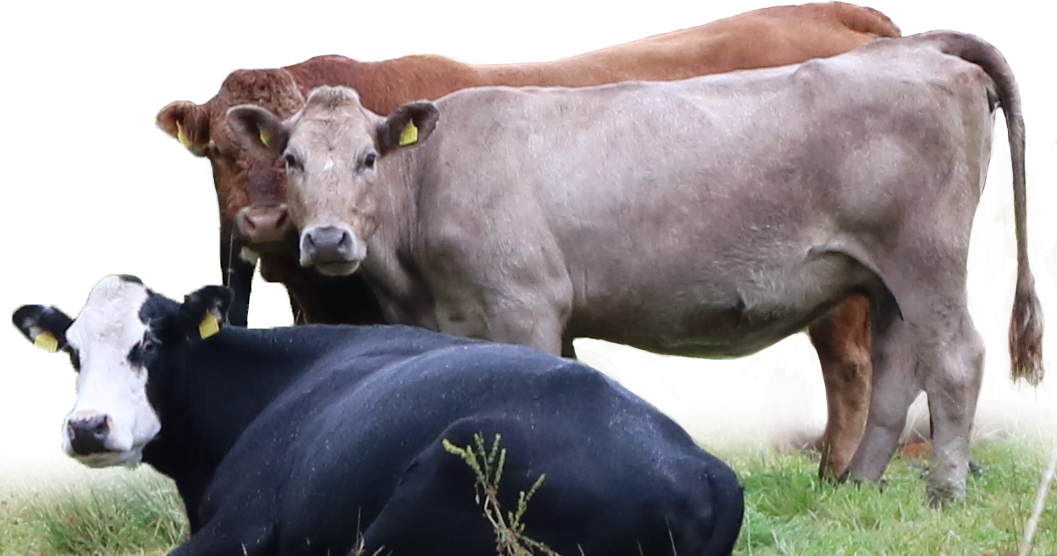
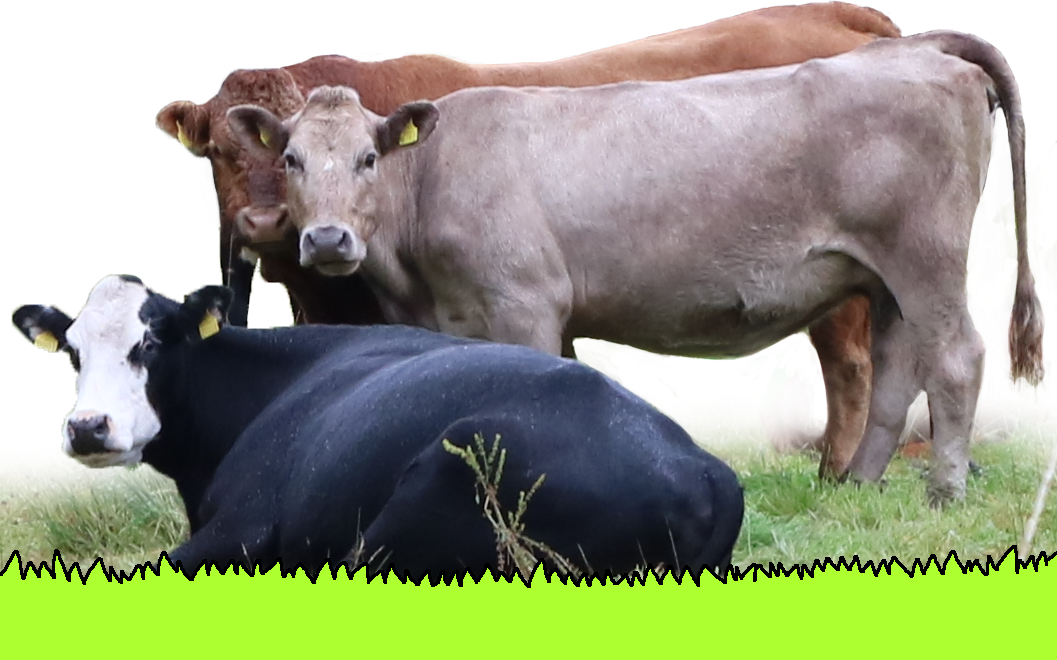
collab form mobile!

diff --git a/styles.css b/styles.css
@@ -867,6 +867,7 @@ ul li { /* list item */
 
     /* HOME: sezione 2 */
     #home_s2 {
+        margin-top: 2em;
         height: 60vw; /*più o meno metà della larghezza*/
         background-image: url(images/mucche.png);
         background-repeat: no-repeat;
@@ -875,7 +876,7 @@ ul li { /* list item */
     }
 
     .social_container {
-        top: 79%;
+        top: 65%;
         left: 50%;
         transform: translate(-50, -50);
         width: fit-content;
@@ -893,7 +894,11 @@ ul li { /* list item */
 
     /*HOME: sezione 3*/
     #home_s3 {
-        display: none;
+        height: auto;
+    }
+
+    #collab_form {
+        width: 90vw;
     }
 
     /* HOME: ART ROULETTE */
